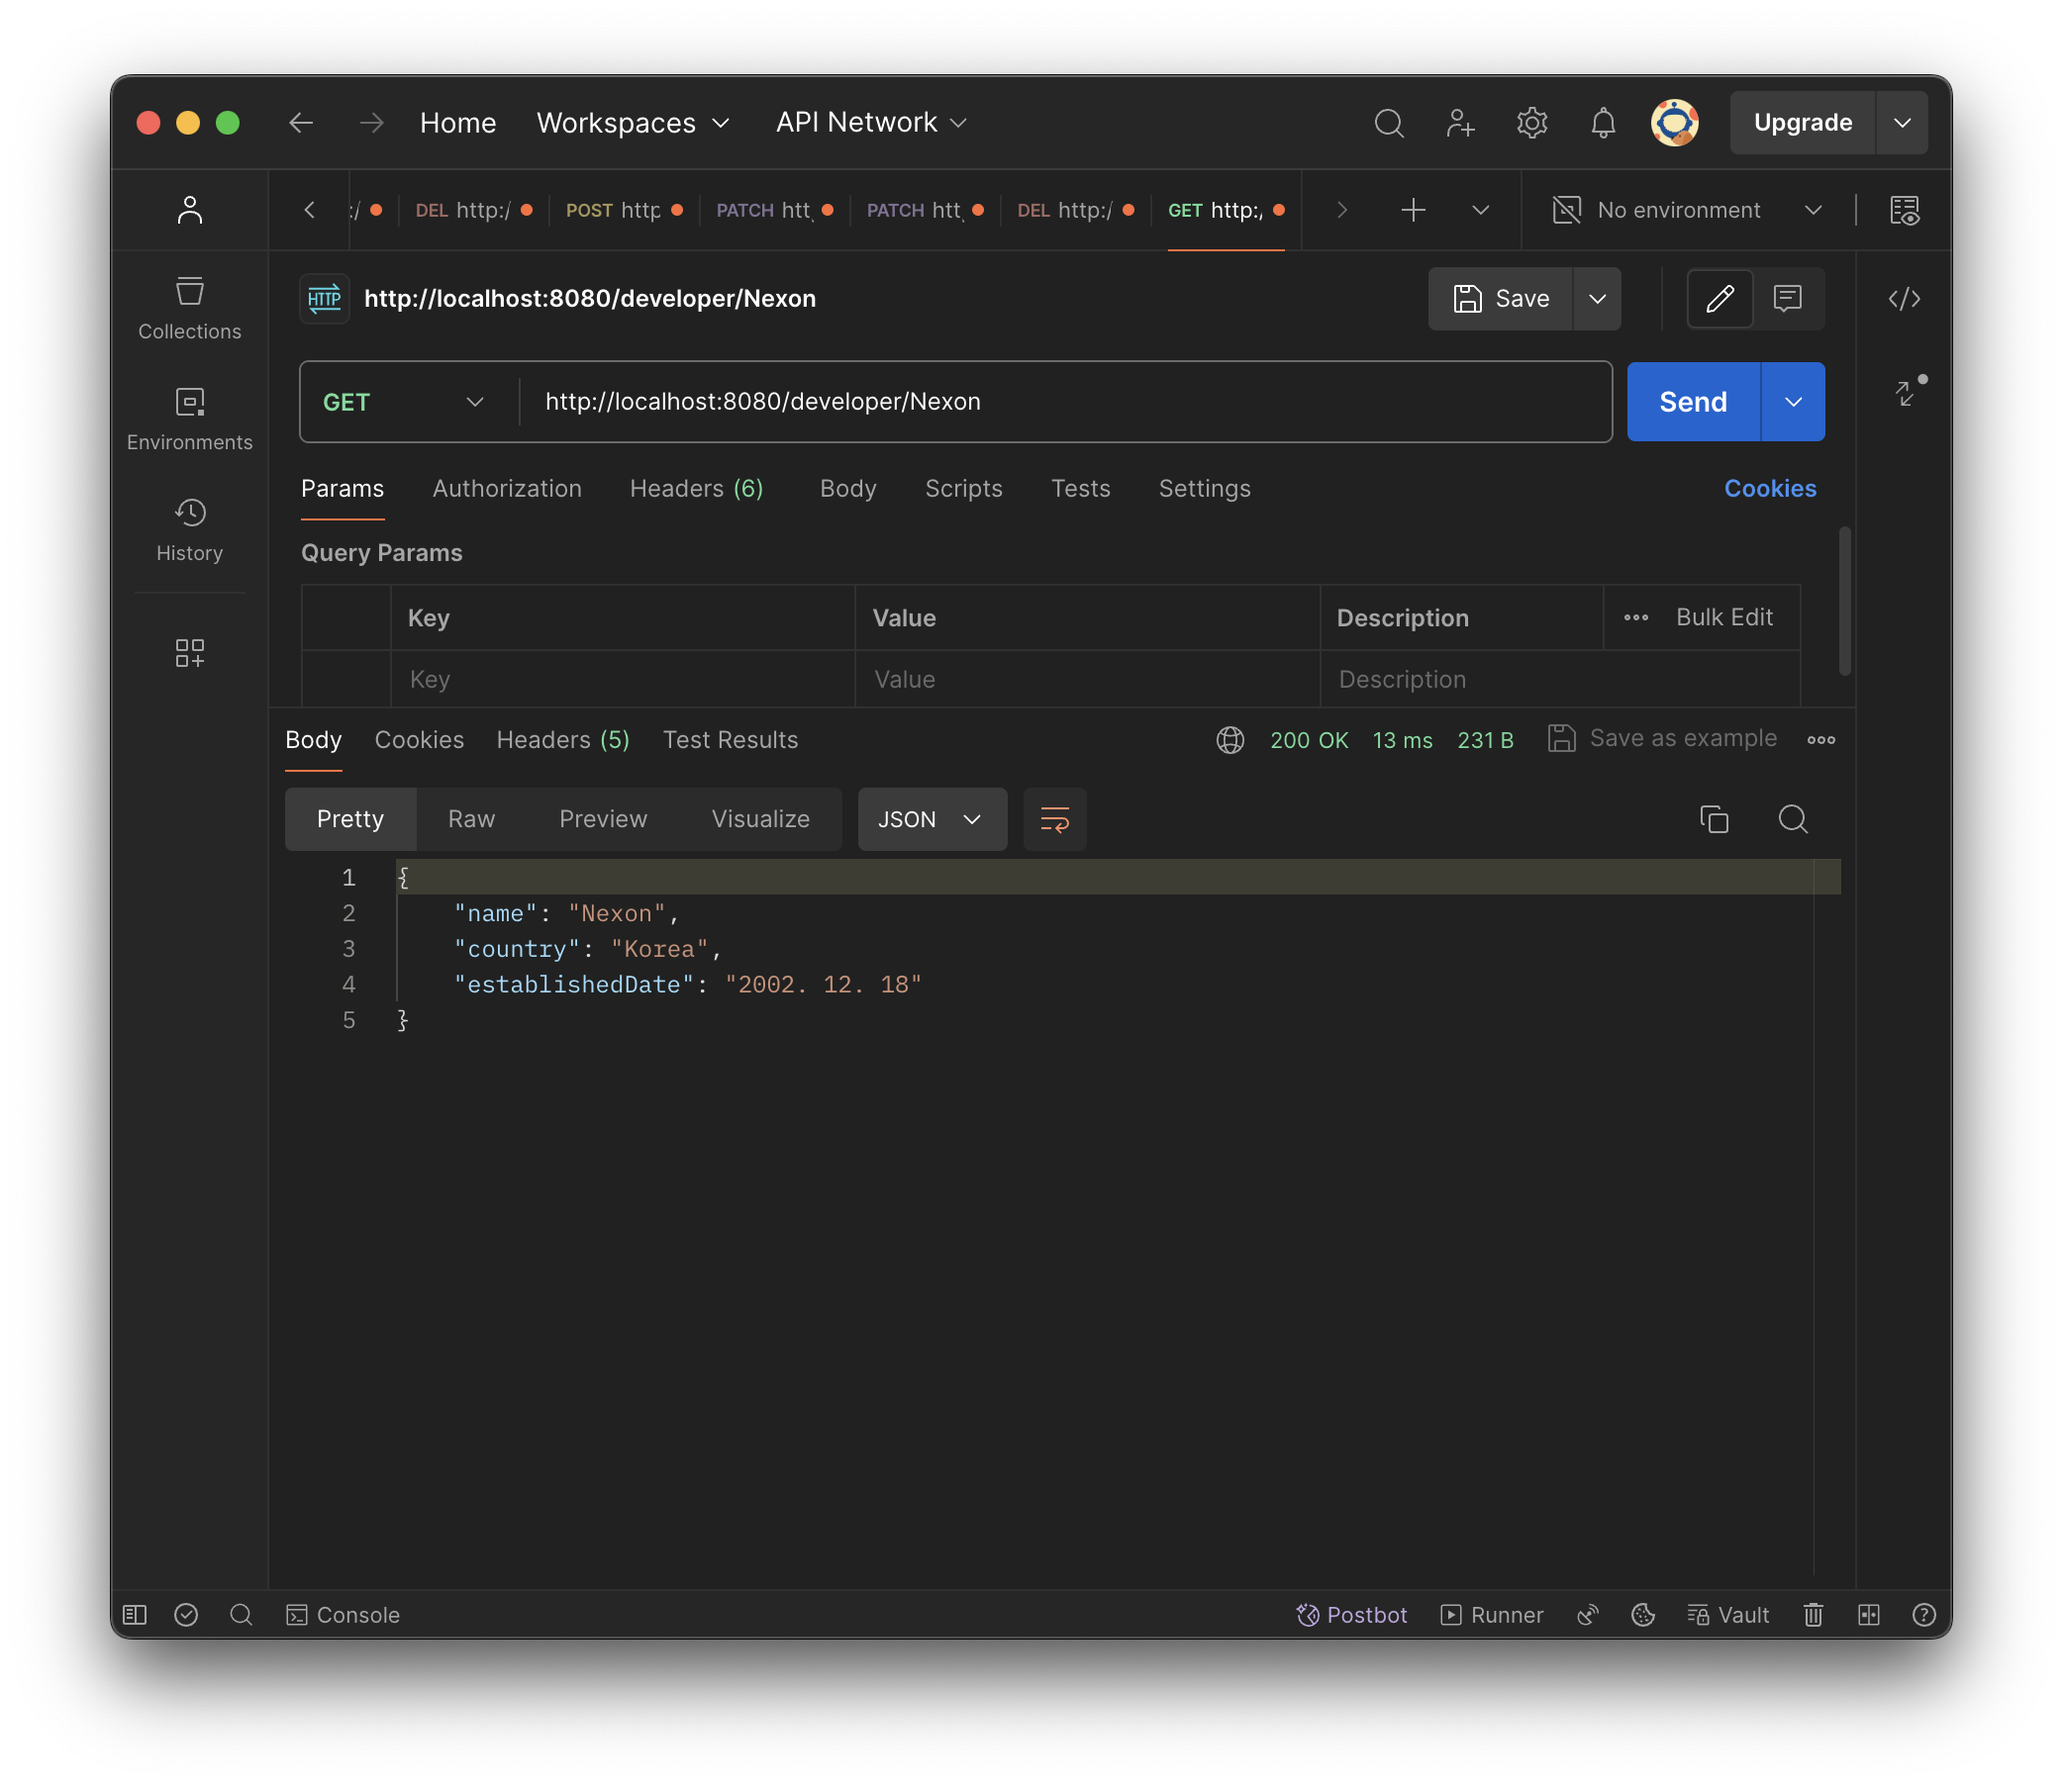
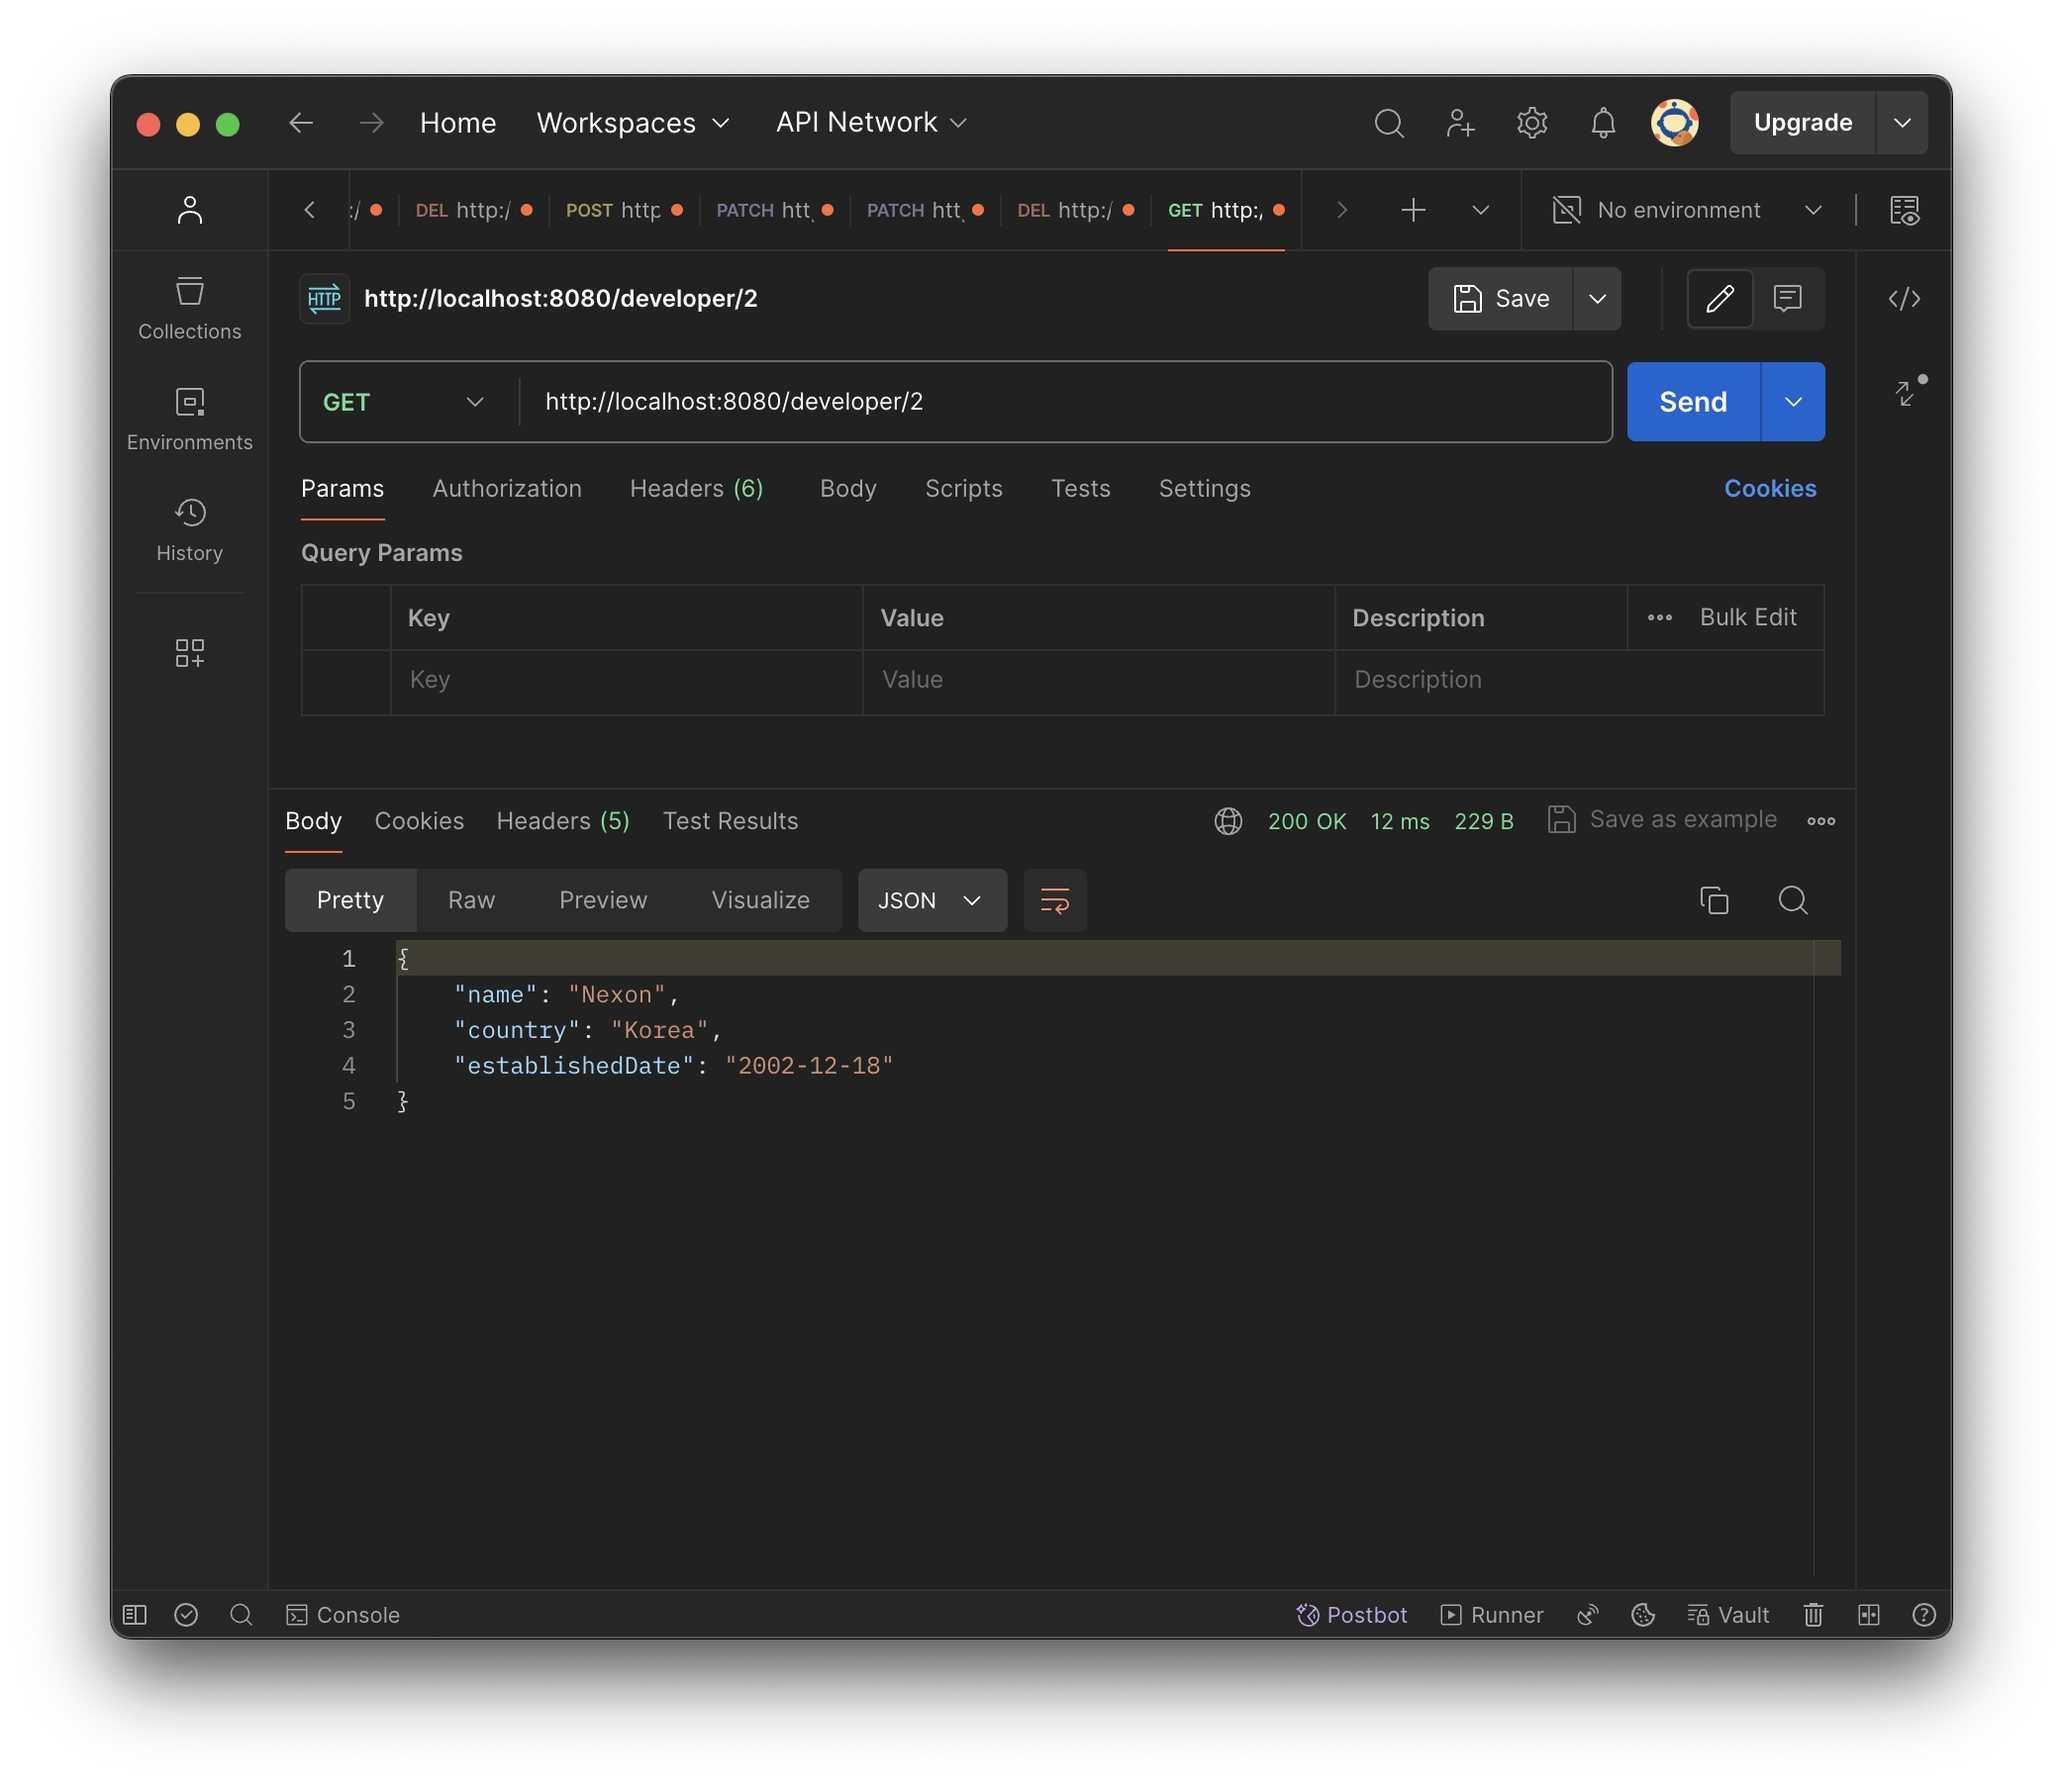
refactor: 개발사 식별자와 설립일 타입 수정

diff --git a/kangduoh/likelion-assignment-crud/src/main/java/org/likelion/likelionassignmentcrud/developer/api/DeveloperController.java b/kangduoh/likelion-assignment-crud/src/main/java/org/likelion/likelionassignmentcrud/developer/api/DeveloperController.java
@@ -32,23 +32,23 @@ public class DeveloperController {
         return new ResponseEntity<>(developerListResDto, HttpStatus.OK);
     }
 
-    @GetMapping("/{developerName}")
-    public ResponseEntity<DeveloperInfoResDto> developerFindOne(@PathVariable("developerName") String developerName) {
-        DeveloperInfoResDto developerInfoResDto = developerService.developerFindOne(developerName);
+    @GetMapping("/{developerId}")
+    public ResponseEntity<DeveloperInfoResDto> developerFindOne(@PathVariable("developerId") Long developerId) {
+        DeveloperInfoResDto developerInfoResDto = developerService.developerFindOne(developerId);
 
         return new ResponseEntity<>(developerInfoResDto, HttpStatus.OK);
     }
 
-    @PatchMapping("/{developerName}")
-    public ResponseEntity<String> developerUpdate(@PathVariable("developerName") String developerName, @RequestBody DeveloperUpdateReqDto developerUpdateReqDto) {
-        developerService.developerUpdate(developerName, developerUpdateReqDto);
+    @PatchMapping("/{developerId}")
+    public ResponseEntity<String> developerUpdate(@PathVariable("developerId") Long developerId, @RequestBody DeveloperUpdateReqDto developerUpdateReqDto) {
+        developerService.developerUpdate(developerId, developerUpdateReqDto);
 
         return new ResponseEntity<>("개발사 수정", HttpStatus.OK);
     }
 
-    @DeleteMapping("/{developerName}")
-    public ResponseEntity<String> developerDelete(@PathVariable("developerName") String developerName) {
-        developerService.developerDelete(developerName);
+    @DeleteMapping("/{developerId}")
+    public ResponseEntity<String> developerDelete(@PathVariable("developerId") Long developerId) {
+        developerService.developerDelete(developerId);
 
         return new ResponseEntity<>("개발사 삭제", HttpStatus.OK);
     }

diff --git a/kangduoh/likelion-assignment-crud/src/main/java/org/likelion/likelionassignmentcrud/developer/application/DeveloperService.java b/kangduoh/likelion-assignment-crud/src/main/java/org/likelion/likelionassignmentcrud/developer/application/DeveloperService.java
@@ -52,24 +52,24 @@ public class DeveloperService {
     }
 
     // 개발사 조회(하나)
-    public DeveloperInfoResDto developerFindOne(String developerName) {
-        Developer developer = developerRepository.findByName(developerName).orElseThrow(IllegalArgumentException::new);
+    public DeveloperInfoResDto developerFindOne(Long developerId) {
+        Developer developer = developerRepository.findById(developerId).orElseThrow(IllegalArgumentException::new);
 
         return DeveloperInfoResDto.from(developer);
     }
 
     // 개발사 업데이트(이름, 국가, 설립일)
     @Transactional
-    public void developerUpdate(String developerName, DeveloperUpdateReqDto developerUpdateReqDto) {
-        Developer developer = developerRepository.findByName(developerName).orElseThrow(IllegalArgumentException::new);
+    public void developerUpdate(Long developerId, DeveloperUpdateReqDto developerUpdateReqDto) {
+        Developer developer = developerRepository.findById(developerId).orElseThrow(IllegalArgumentException::new);
 
         developer.update(developerUpdateReqDto);
     }
 
     // 개발사 삭제
     @Transactional
-    public void developerDelete(String developerName) {
-        Developer developer = developerRepository.findByName(developerName).orElseThrow(IllegalArgumentException::new);
+    public void developerDelete(Long developerId) {
+        Developer developer = developerRepository.findById(developerId).orElseThrow(IllegalArgumentException::new);
 
         developerRepository.delete(developer);
     }

diff --git a/kangduoh/likelion-assignment-crud/src/main/java/org/likelion/likelionassignmentcrud/developer/domain/Developer.java b/kangduoh/likelion-assignment-crud/src/main/java/org/likelion/likelionassignmentcrud/developer/domain/Developer.java
@@ -8,6 +8,7 @@ import lombok.NoArgsConstructor;
 import org.likelion.likelionassignmentcrud.developer.api.dto.request.DeveloperUpdateReqDto;
 import org.likelion.likelionassignmentcrud.game.domain.Game;
 
+import java.time.LocalDate;
 import java.util.ArrayList;
 import java.util.List;
 
@@ -17,17 +18,21 @@ import java.util.List;
 public class Developer {
 
     @Id
-    @Column(name = "developer_name", nullable = false, unique = true)
-    private String name;
+    @GeneratedValue(strategy = GenerationType.IDENTITY)
+    @Column(name = "developer_id")
+    private Long developerId;
 
+    private String name;
     private String country;
-    private String establishedDate;
+
+    @Column(name = "established_date")
+    private LocalDate establishedDate;
 
     @OneToMany(mappedBy = "developer", cascade = CascadeType.ALL, orphanRemoval = true)
     private List<Game> games = new ArrayList<>();
 
     @Builder
-    private Developer(String name, String country, String establishedDate) {
+    private Developer(String name, String country, LocalDate establishedDate) {
         this.name = name;
         this.country = country;
         this.establishedDate = establishedDate;

diff --git a/kangduoh/likelion-assignment-crud/src/main/java/org/likelion/likelionassignmentcrud/game/api/dto/response/GameInfoResDto.java b/kangduoh/likelion-assignment-crud/src/main/java/org/likelion/likelionassignmentcrud/game/api/dto/response/GameInfoResDto.java
@@ -9,14 +9,14 @@ public record GameInfoResDto(
         String name,
         String genre,
         Platform platform,
-        String developer
+        String developerName
 ) {
     public static GameInfoResDto from(Game game) {
         return GameInfoResDto.builder()
                 .name(game.getName())
                 .genre(game.getGenre())
                 .platform(game.getPlatform())
-                .developer(game.getDeveloper().getName())
+                .developerName(game.getDeveloper().getName())
                 .build();
     }
 }

diff --git a/kangduoh/likelion-assignment-crud/src/main/java/org/likelion/likelionassignmentcrud/developer/api/dto/response/DeveloperInfoResDto.java b/kangduoh/likelion-assignment-crud/src/main/java/org/likelion/likelionassignmentcrud/developer/api/dto/response/DeveloperInfoResDto.java
@@ -3,11 +3,13 @@ package org.likelion.likelionassignmentcrud.developer.api.dto.response;
 import lombok.Builder;
 import org.likelion.likelionassignmentcrud.developer.domain.Developer;
 
+import java.time.LocalDate;
+
 @Builder
 public record DeveloperInfoResDto(
         String name,
         String country,
-        String establishedDate
+        LocalDate establishedDate
 ) {
     public static DeveloperInfoResDto from(Developer developer) {
         return DeveloperInfoResDto.builder()

diff --git a/kangduoh/likelion-assignment-crud/src/main/java/org/likelion/likelionassignmentcrud/game/application/GameService.java b/kangduoh/likelion-assignment-crud/src/main/java/org/likelion/likelionassignmentcrud/game/application/GameService.java
@@ -27,7 +27,7 @@ public class GameService {
     // Create
     @Transactional
     public void gameSave(GameSaveReqDto gameSaveReqDto) {
-        Developer developer = developerRepository.findByName(gameSaveReqDto.developer())
+        Developer developer = developerRepository.findById(gameSaveReqDto.developerId())
                 .orElseThrow(IllegalArgumentException::new);
 
         Game game = Game.builder()

diff --git a/kangduoh/likelion-assignment-crud/src/main/java/org/likelion/likelionassignmentcrud/developer/api/dto/request/DeveloperSaveReqDto.java b/kangduoh/likelion-assignment-crud/src/main/java/org/likelion/likelionassignmentcrud/developer/api/dto/request/DeveloperSaveReqDto.java
@@ -1,9 +1,11 @@
 package org.likelion.likelionassignmentcrud.developer.api.dto.request;
 
+import java.time.LocalDate;
+
 public record DeveloperSaveReqDto(
         // 이름, 국가, 설립일
         String name,
         String country,
-        String establishedDate
+        LocalDate establishedDate
 ) {
 }

diff --git a/kangduoh/likelion-assignment-crud/src/main/java/org/likelion/likelionassignmentcrud/game/api/dto/request/GameSaveReqDto.java b/kangduoh/likelion-assignment-crud/src/main/java/org/likelion/likelionassignmentcrud/game/api/dto/request/GameSaveReqDto.java
@@ -4,7 +4,7 @@ import org.likelion.likelionassignmentcrud.game.domain.Platform;
 
 public record GameSaveReqDto(
         // 개발사, 게임명, 장르, 플랫폼
-        String developer,
+        Long developerId,
         String name,
         String genre,
         Platform platform

diff --git a/kangduoh/likelion-assignment-crud/src/main/java/org/likelion/likelionassignmentcrud/game/domain/Game.java b/kangduoh/likelion-assignment-crud/src/main/java/org/likelion/likelionassignmentcrud/game/domain/Game.java
@@ -25,7 +25,7 @@ public class Game {
     private Platform platform;
 
     @ManyToOne(fetch = FetchType.LAZY)
-    @JoinColumn(name = "developer_name")
+    @JoinColumn(name = "developer_id")
     private Developer developer;
 
     @Builder
